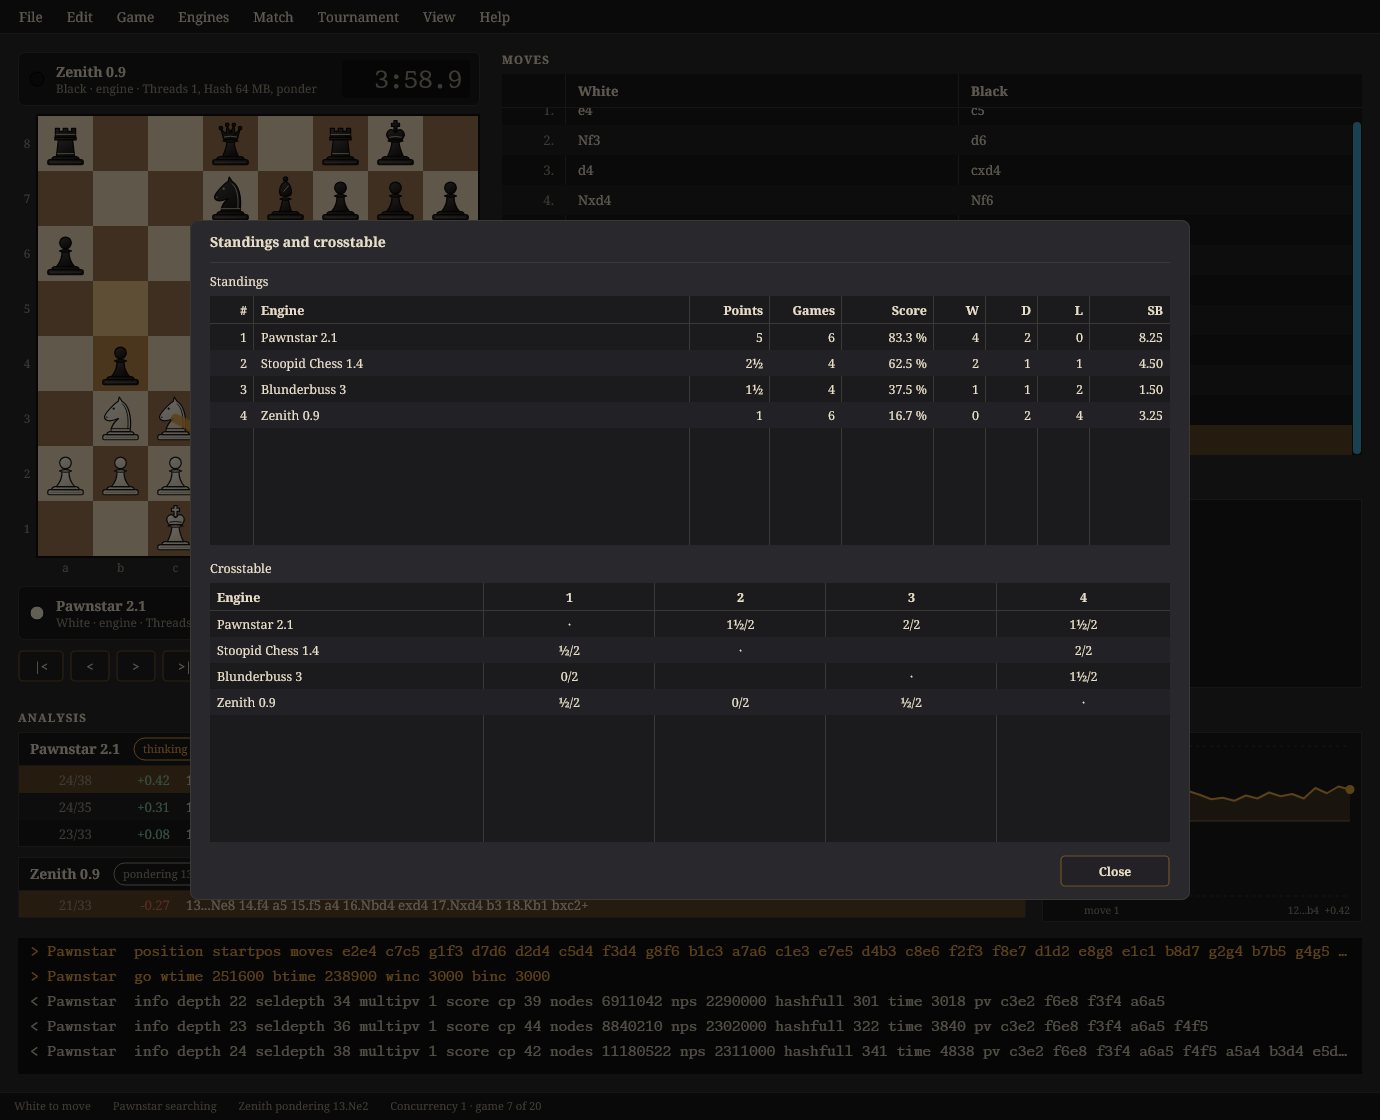
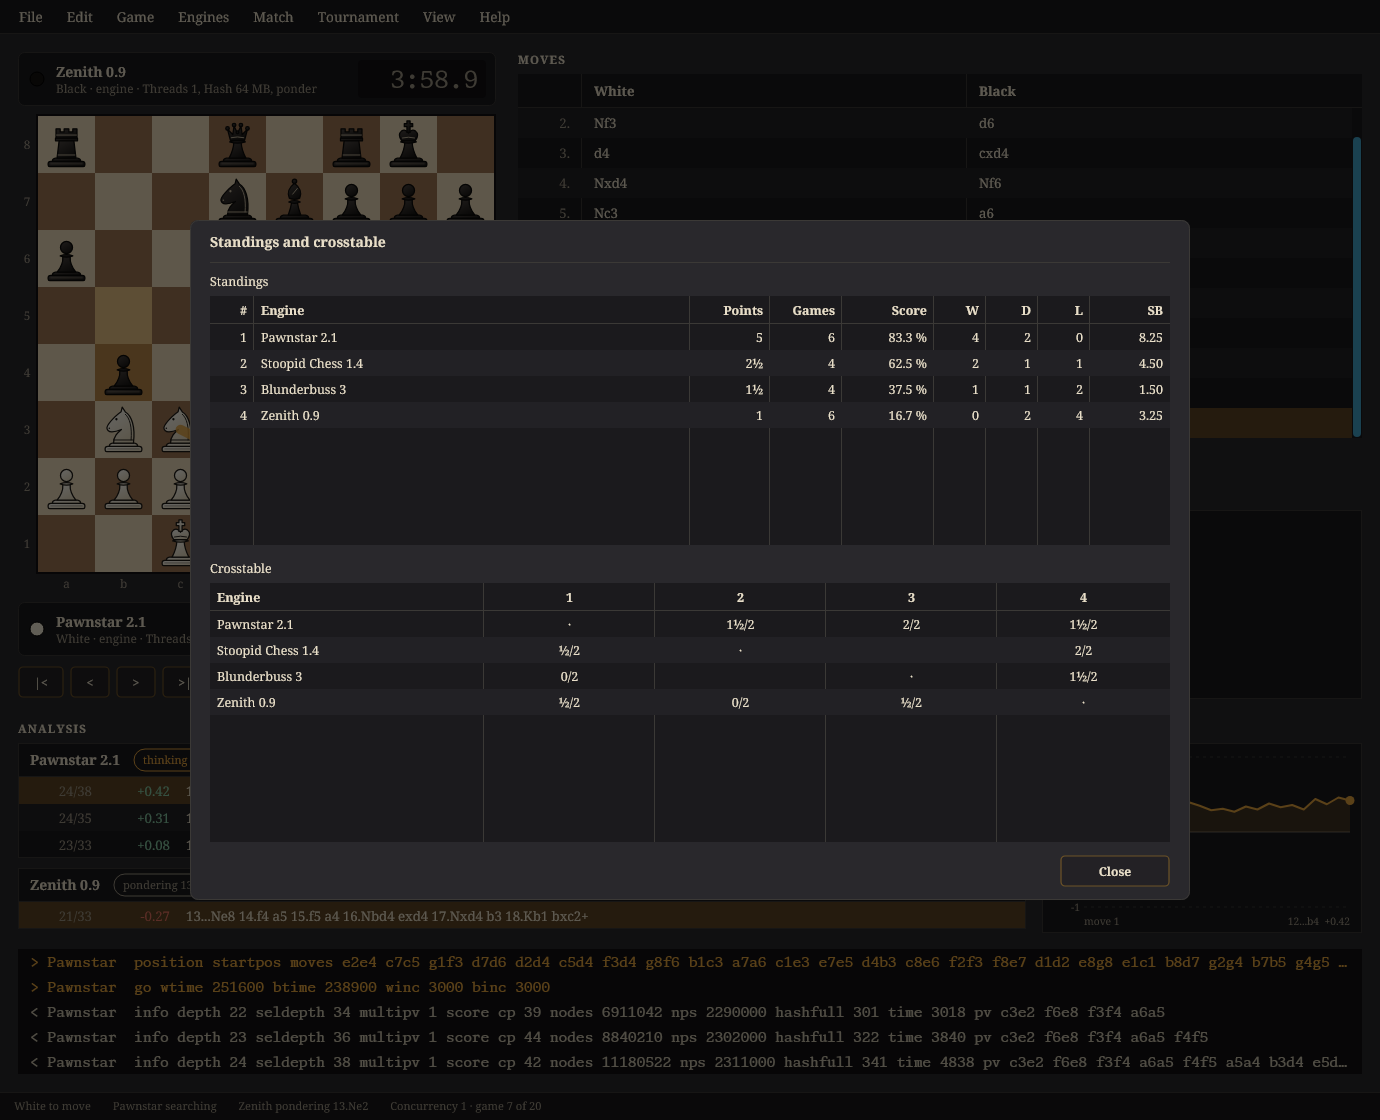
Keep the moves and the log a whole number of rows tall
The list scrolls by the pixel, so a moves list 347 pixels tall over rows of 30 kept the
twelfth move in view by scrolling 13 pixels, leaving the first row half under the header;
the log did the same to its oldest line at the top. The toolkit's list is right to scroll by
the pixel - a person's wheel and the scroll bar's drag do - so the window gives both lists a
height of whole rows instead, and a list kept on the move shown or the newest line lands on
a row's edge at both ends.

diff --git a/src/app/MainView.cpp b/src/app/MainView.cpp
@@ -203,7 +203,7 @@ void MainView::Resized()
     const int bottom = h - kStatusHeight - kMargin;
 
     // The foot: the log at the bottom, the analysis and the graph over it.
-    const int log_height = std::clamp(h / 8, 100, kLogHeight);
+    const int log_height = log_.FittedHeight(std::clamp(h / 8, 100, kLogHeight)); // whole rows, as the moves
     const int log_top    = bottom - log_height;
     log_.view().SetBounds({left, log_top, right - left, log_height});
     const int foot_top   = log_top - kGap - kLabelHeight - kAnalysisHeight;
@@ -244,9 +244,11 @@ void MainView::Resized()
     card_.SetBounds({side_left, card_top, side_width, card_tall});
     card_label_.SetBounds({side_left, card_top - kLabelHeight, side_width, kLabelHeight});
     moves_label_.SetBounds({side_left, top - 6, side_width, kLabelHeight});
+    // The moves a whole number of rows tall: the list scrolls by the pixel, so a height between rows would leave the
+    // top row half under the header whenever the move shown is kept in view at the bottom.
     const int moves_top = top - 6 + kLabelHeight;
-    moves_.view().SetBounds(
-        {side_left, moves_top, side_width, std::max(60, card_top - kLabelHeight - kGap - moves_top)});
+    moves_.view().SetBounds({side_left, moves_top, side_width,
+                             moves_.FittedHeight(std::max(60, card_top - kLabelHeight - kGap - moves_top))});
     moves_.SetCurrentPly(moves_.model().current_ply()); // the move shown kept in view at the list's new size
 }
 

diff --git a/tests/app/WindowTest.cpp b/tests/app/WindowTest.cpp
@@ -243,6 +243,24 @@ TEST(Board, EachStateItShowsChangesItsPicture)
     EXPECT_NE(Drawn(rig.board), banner);
 }
 
+TEST(MainView, TheMovesAndTheLogShowWholeRowsKeptOnTheMoveShownAndTheNewestLine)
+{
+    MainView view(Pieces());
+    ShowSample(view);
+    for (const int height : {MainView::kDesignHeight, MainView::kLayoutHeight, MainView::kDesignHeight - 23})
+    {
+        view.SetBounds({MainView::kDesignWidth, height});
+        const auto &list  = view.moves().view();
+        const auto &style = list.style();
+        EXPECT_EQ((list.height() - style.header_height) % style.row_height, 0) << height;
+        EXPECT_GT(list.scroll(), 0) << "the sample's moves outrun the list";
+        EXPECT_EQ(list.scroll() % style.row_height, 0) << "no row half under the header at " << height;
+        const auto &log = view.log().view();
+        EXPECT_EQ(log.height() % log.style().row_height, 0) << height;
+        EXPECT_EQ(log.scroll() % log.style().row_height, 0) << "following the newest line at " << height;
+    }
+}
+
 TEST(MovesModel, MovesFillRowsFromWhitesColumnOrBlacksAndTheCurrentOneIsLit)
 {
     MovesModel model;

diff --git a/src/app/MovesList.h b/src/app/MovesList.h
@@ -95,6 +95,14 @@ class MovesList
     /** @param ply The position the board shows; the list scrolls to it. */
     void SetCurrentPly(int ply);
 
+    /**
+     * The list's height in a room: its header and as many whole rows as fit, so a list kept on the move shown never
+     * leaves a part of a row under the header.
+     * @param room The height there is, in pixels.
+     * @return The height to give the list: at most the room, and at least the header and one row.
+     */
+    int FittedHeight(int room) const;
+
     /** @return The list, for the window to add and lay out. */
     reckless::view::ListView &view()
     {

diff --git a/src/app/MovesList.cpp b/src/app/MovesList.cpp
@@ -4,6 +4,8 @@
 
 #include "ListStyles.h"
 
+#include <algorithm>
+
 namespace uci_host::app
 {
 
@@ -116,6 +118,13 @@ void MovesList::SetMoves(std::vector<std::string> sans, int first_number, bool i
     model_.SetCurrentPly(current_ply);
     list_.RowsChanged();
     SetCurrentPly(current_ply);
+}
+
+int MovesList::FittedHeight(int room) const
+{
+    const auto &style = list_.style();
+    const int   rows  = std::max(1, (room - style.header_height) / style.row_height);
+    return style.header_height + rows * style.row_height;
 }
 
 void MovesList::SetCurrentPly(int ply)

diff --git a/src/app/EngineLog.h b/src/app/EngineLog.h
@@ -88,6 +88,14 @@ class EngineLog
     /** Every line dropped. */
     void Clear();
 
+    /**
+     * The log's height in a room: as many whole rows as fit, so a log following its newest line never shows a part
+     * of a row at its top.
+     * @param room The height there is, in pixels.
+     * @return The height to give the log: at most the room, and at least one row.
+     */
+    int FittedHeight(int room) const;
+
     /** @return The list, for the window to add and lay out. */
     reckless::view::ListView &view()
     {

diff --git a/src/app/EngineLog.cpp b/src/app/EngineLog.cpp
@@ -4,6 +4,8 @@
 
 #include "ListStyles.h"
 
+#include <algorithm>
+
 namespace uci_host::app
 {
 
@@ -86,6 +88,12 @@ void EngineLog::Clear()
 {
     model_.Clear();
     list_.RowsChanged();
+}
+
+int EngineLog::FittedHeight(int room) const
+{
+    const int row = list_.style().row_height;
+    return std::max(1, room / row) * row;
 }
 
 } // namespace uci_host::app

diff --git a/README.md b/README.md
@@ -127,7 +127,8 @@ layout's least and the tooltips), its child window on Skia and its views. The la
 column - a player's strip above and below the board, with the running clock lit amber, and the plates |< < > >| Flip
 Analyse - beside the moves and the game's card; across the foot the analysis, the evaluation graph and the engine log in
 Monaspace Xenon; the status bar. The board grows with the window; under 1240 x 1000 design pixels the whole layout is
-zoomed down rather than squeezed.
+zoomed down rather than squeezed. The moves and the log are a whole number of rows tall, so a list kept on the move
+shown or the newest line never leaves part of a row at its top.
 
 The pieces are the Staunton SVGs, carried inside the binary and drawn by the toolkit's SVG reader at whatever size the
 squares are. The board takes a person's moves by click or by drag, marks the legal targets and offers a picker for a
